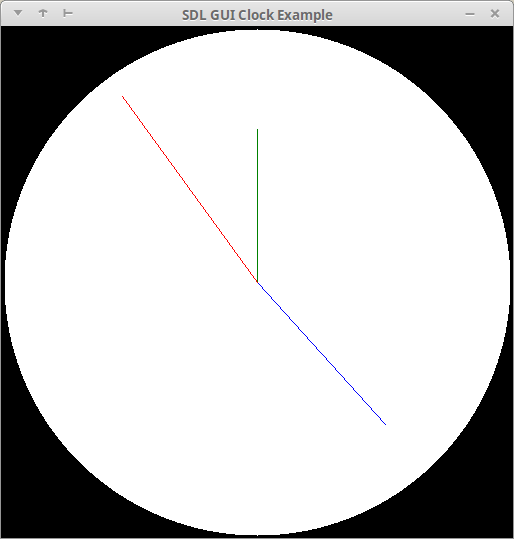
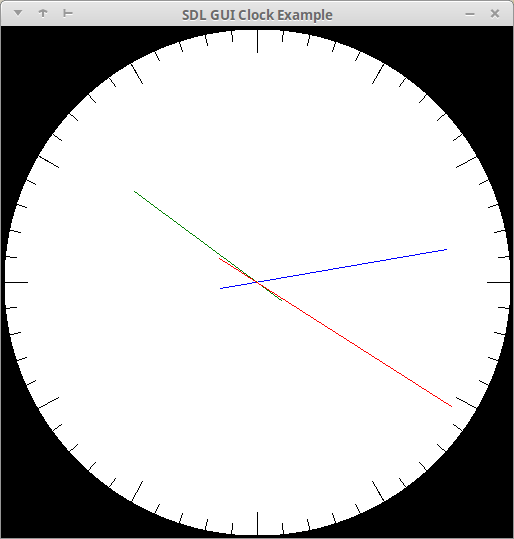
hands move smoothly, add dial

Changed region(s): [[0.4669, 0.5046, 0.5292, 0.5343], [0.5292, 0.5343, 0.5603, 0.564], [0.4358, 0.475, 0.4669, 0.5046]]

diff --git a/analogueclock/aclock.go b/analogueclock/aclock.go
@@ -65,20 +65,48 @@ func (tc *Clock) drawFace() {
 	}
 }
 
-func (tc *Clock) drawHand(co htmlcolors.RGBA, angle float64, l float64) {
+func (tc *Clock) getFacePos(angle float64, l float64) (int, int) {
 	angle -= 90
-	x1, y1 := tc.W/2, tc.H/2
-	x2 := x1 + int(math.Cos(angle/180*math.Pi)*float64(x1)*l)
-	y2 := y1 + int(math.Sin(angle/180*math.Pi)*float64(y1)*l)
+	xc, yc := tc.W/2, tc.H/2
+	x := xc + int(math.Cos(angle/180*math.Pi)*float64(xc)*l)
+	y := yc + int(math.Sin(angle/180*math.Pi)*float64(yc)*l)
+	return x, y
+}
+
+func (tc *Clock) drawHand(co htmlcolors.RGBA, angle float64, l float64) {
+	// x1, y1 := tc.W/2, tc.H/2
+	x1, y1 := tc.getFacePos(angle, -l/5)
+	x2, y2 := tc.getFacePos(angle, l)
 	tc.Rend.SetDrawColor(co[0], co[1], co[2], co[3])
 	tc.Rend.DrawLine(x1, y1, x2, y2)
 }
 
+func (tc *Clock) drawDialLine(co htmlcolors.RGBA, angle float64, s, e float64) {
+	x1, y1 := tc.getFacePos(angle, s)
+	x2, y2 := tc.getFacePos(angle, e)
+	tc.Rend.SetDrawColor(co[0], co[1], co[2], co[3])
+	tc.Rend.DrawLine(x1, y1, x2, y2)
+}
+
+func (tc *Clock) drawDials() {
+	for a := 0.0; a < 360; a += 6 {
+		tc.drawDialLine(htmlcolors.Black.ToRGBA(), a, 0.95, 1.0)
+	}
+	for a := 0.0; a < 360; a += 6 * 5 {
+		tc.drawDialLine(htmlcolors.Black.ToRGBA(), a, 0.90, 1.0)
+	}
+}
+
 func (tc *Clock) time2Angle() (float64, float64, float64) {
-	h := float64(tc.t.Hour()%12) / 12 * 360
-	m := float64(tc.t.Minute()) / 60 * 360
-	s := float64(tc.t.Second()) / 60 * 360
-	return h, m, s
+	ms := float64(tc.t.Nanosecond()/1000000) / 1000
+	s := (float64(tc.t.Second()) + ms)
+	m := (float64(tc.t.Minute()) + s/60)
+	h := (float64(tc.t.Hour()%12) + m/60)
+
+	sa := s / 60 * 360
+	ma := m / 60 * 360
+	ha := h / 12 * 360
+	return ha, ma, sa
 }
 
 func (tc *Clock) DrawSurface() {
@@ -92,6 +120,7 @@ func (tc *Clock) DrawSurface() {
 
 	h, m, s := tc.time2Angle()
 	tc.drawFace()
+	tc.drawDials()
 	tc.drawHand(tc.hhand, h, 0.60)
 	tc.drawHand(tc.mhand, m, 0.75)
 	tc.drawHand(tc.shand, s, 0.90)

diff --git a/example/clock.go b/example/clock.go
@@ -51,7 +51,6 @@ func (app *App) AddControl(c sdlgui.ControlI) {
 func (g *App) addControls() {
 	g.cl = analogueclock.New(0, 0, 0, 512, 512)
 	g.AddControl(g.cl)
-
 }
 
 func (app *App) Run() {
@@ -63,7 +62,7 @@ func (app *App) Run() {
 	sdlgui.SDLEvent2Ch(app.SdlCh)
 
 	timerInfoCh := time.Tick(time.Duration(1000) * time.Millisecond)
-	timerDrawCh := time.Tick(time.Duration(1000/60) * time.Millisecond)
+	timerDrawCh := time.Tick(time.Duration(1000/30) * time.Millisecond)
 
 	for !app.Quit {
 		select {
@@ -75,6 +74,7 @@ func (app *App) Run() {
 			app.Stat.Inc()
 
 		case <-timerDrawCh:
+			app.cl.SetTime(time.Now())
 			for _, v := range app.Controls {
 				v.DrawSurface()
 			}
@@ -83,7 +83,6 @@ func (app *App) Run() {
 		case <-timerInfoCh:
 			log.Info("stat %v", app.Stat)
 			app.Stat.UpdateLap()
-			app.cl.SetTime(time.Now())
 		}
 	}
 }
